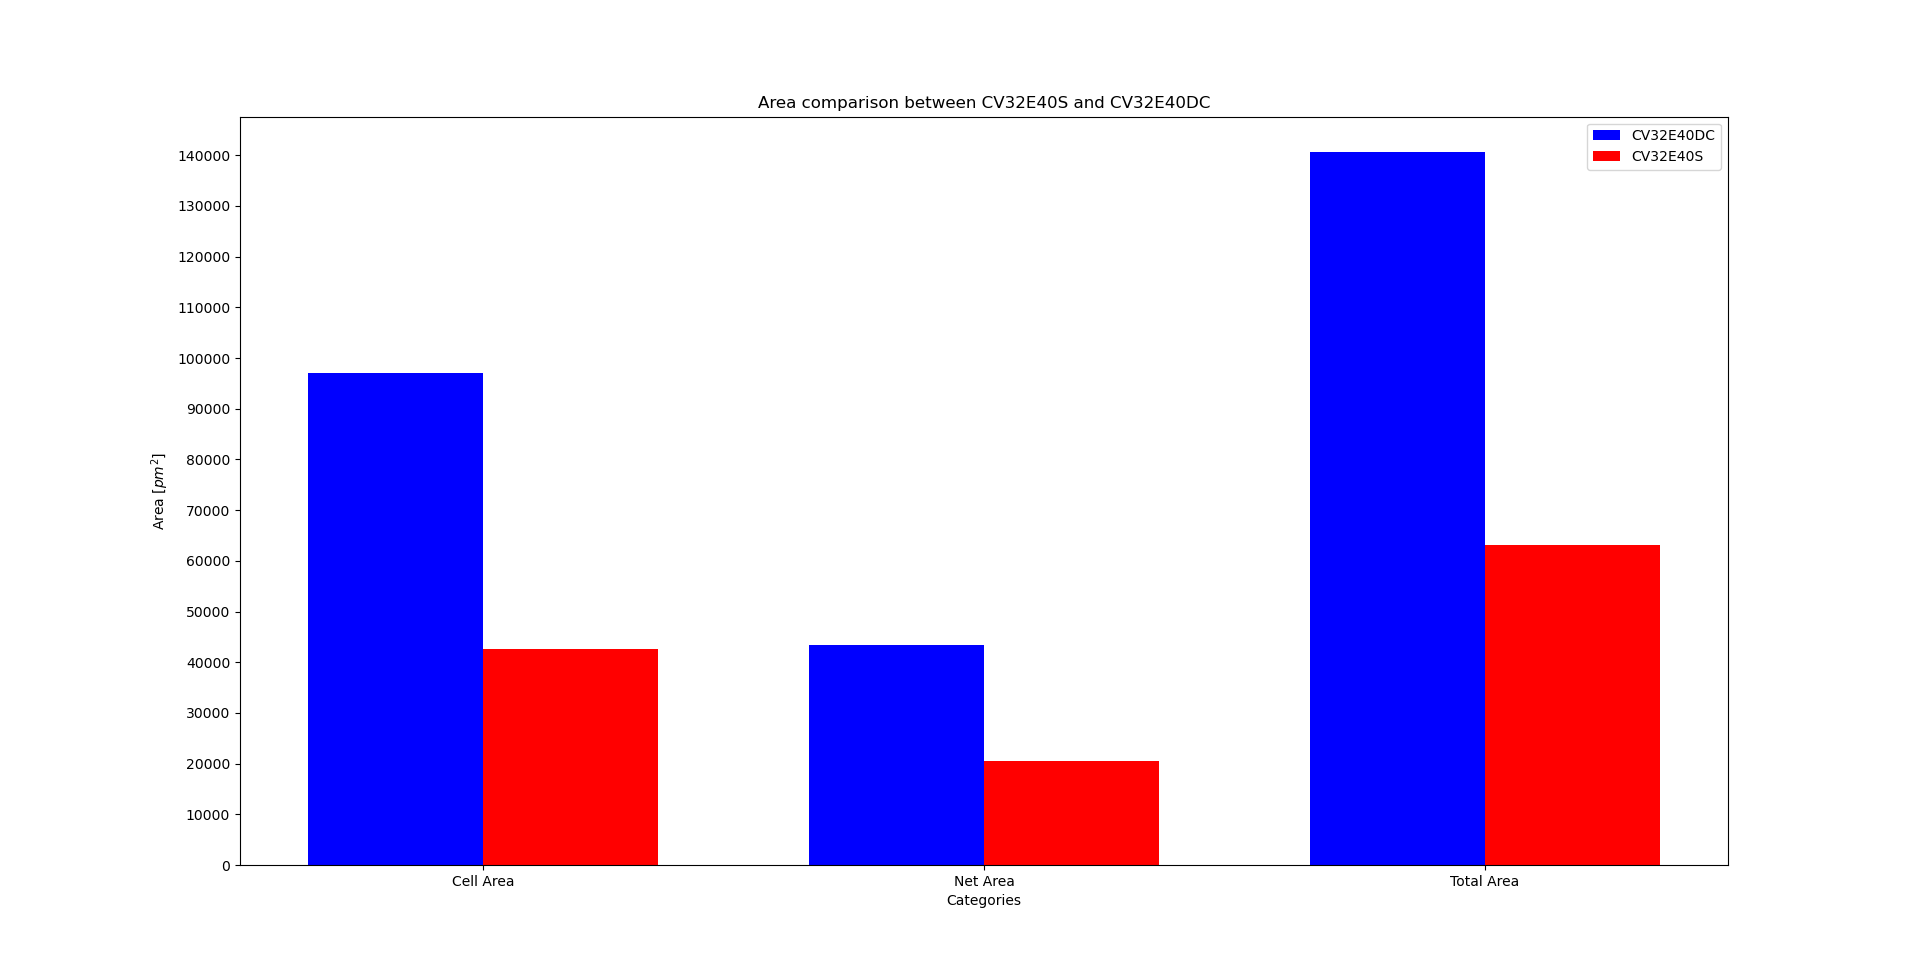
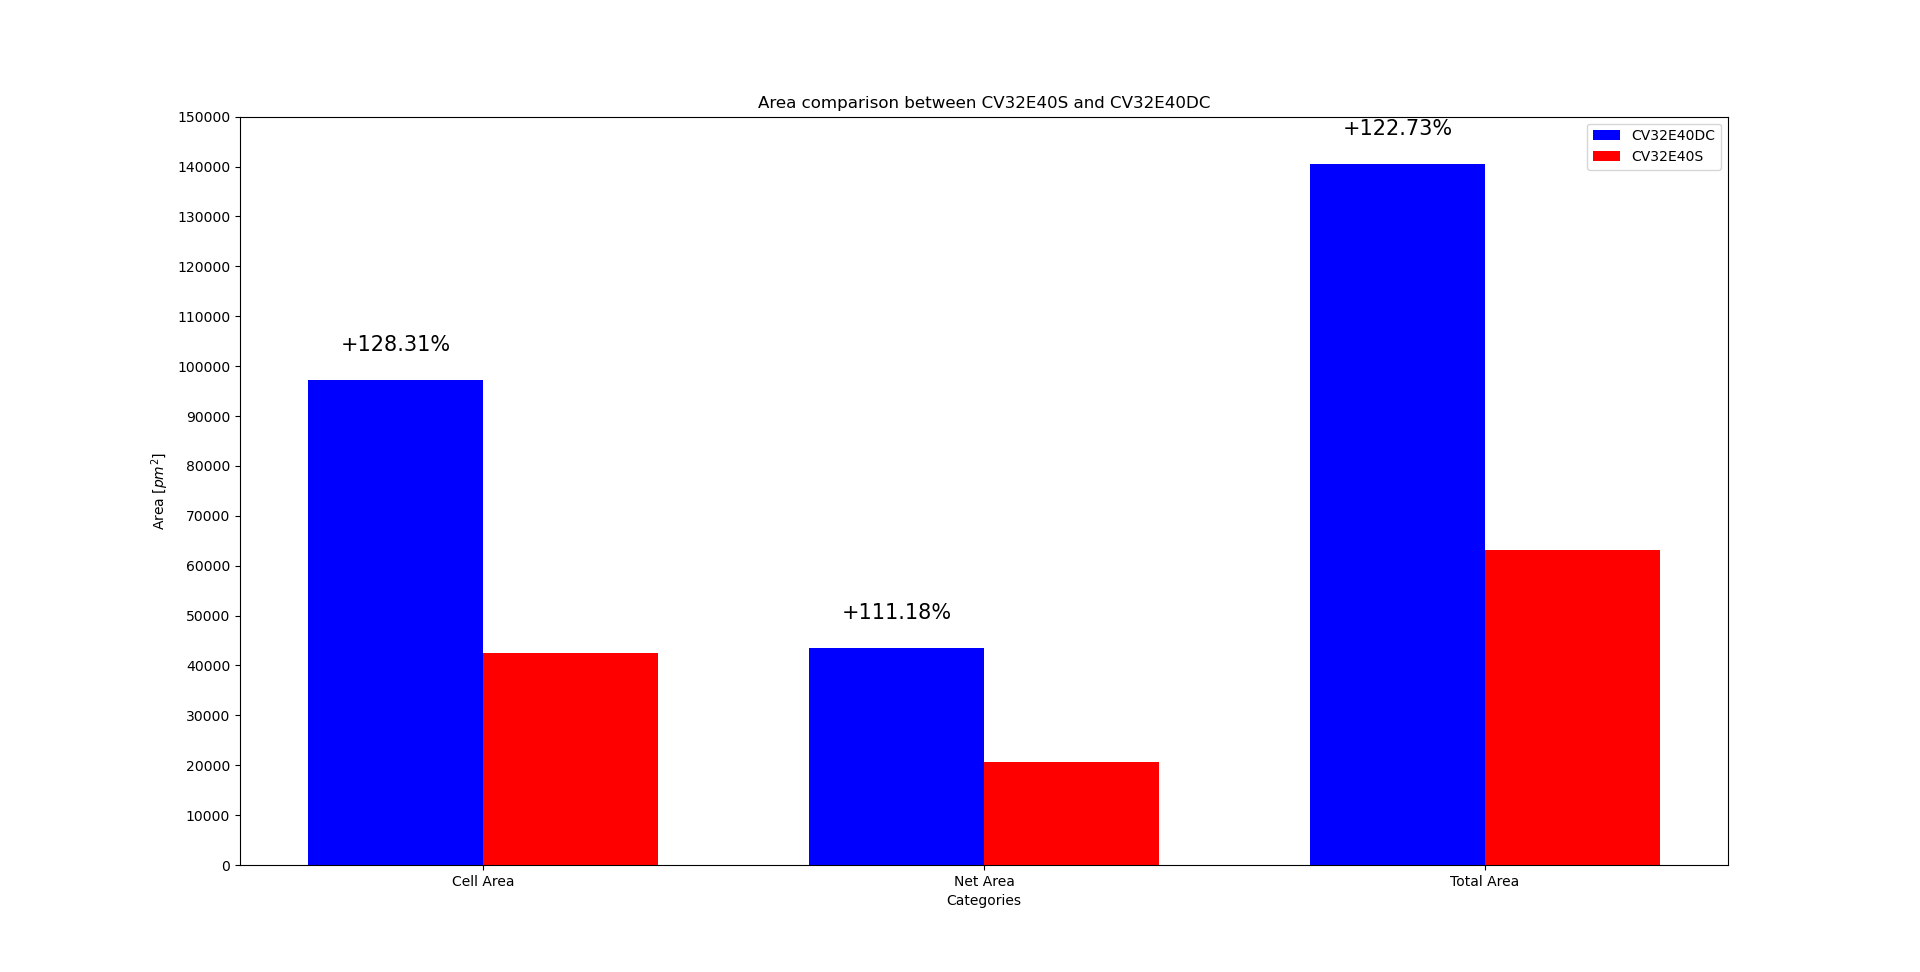
image

diff --git a/analysis/scripts/synth_analysis.py b/analysis/scripts/synth_analysis.py
@@ -131,7 +131,7 @@ def plot_area(core, dual_core):
     # # Calculate percentage difference and add text annotations
     for i, (core_val, dual_core_val) in enumerate(zip(core_values, dual_core_values)):
         percentage_diff = ((dual_core_val - core_val) / core_val) * 100
-        plt.text(bar_positions[i] - bar_width / 2, dual_core_val + 5000, f'+{percentage_diff:.2f}%', ha='center', va='bottom', color='black')
+        plt.text(bar_positions[i] - bar_width / 2, dual_core_val + 5000, f'+{percentage_diff:.2f}%', ha='center', va='bottom', color='black', fontsize=15)
 
     # Display the plot
     plt.show()
